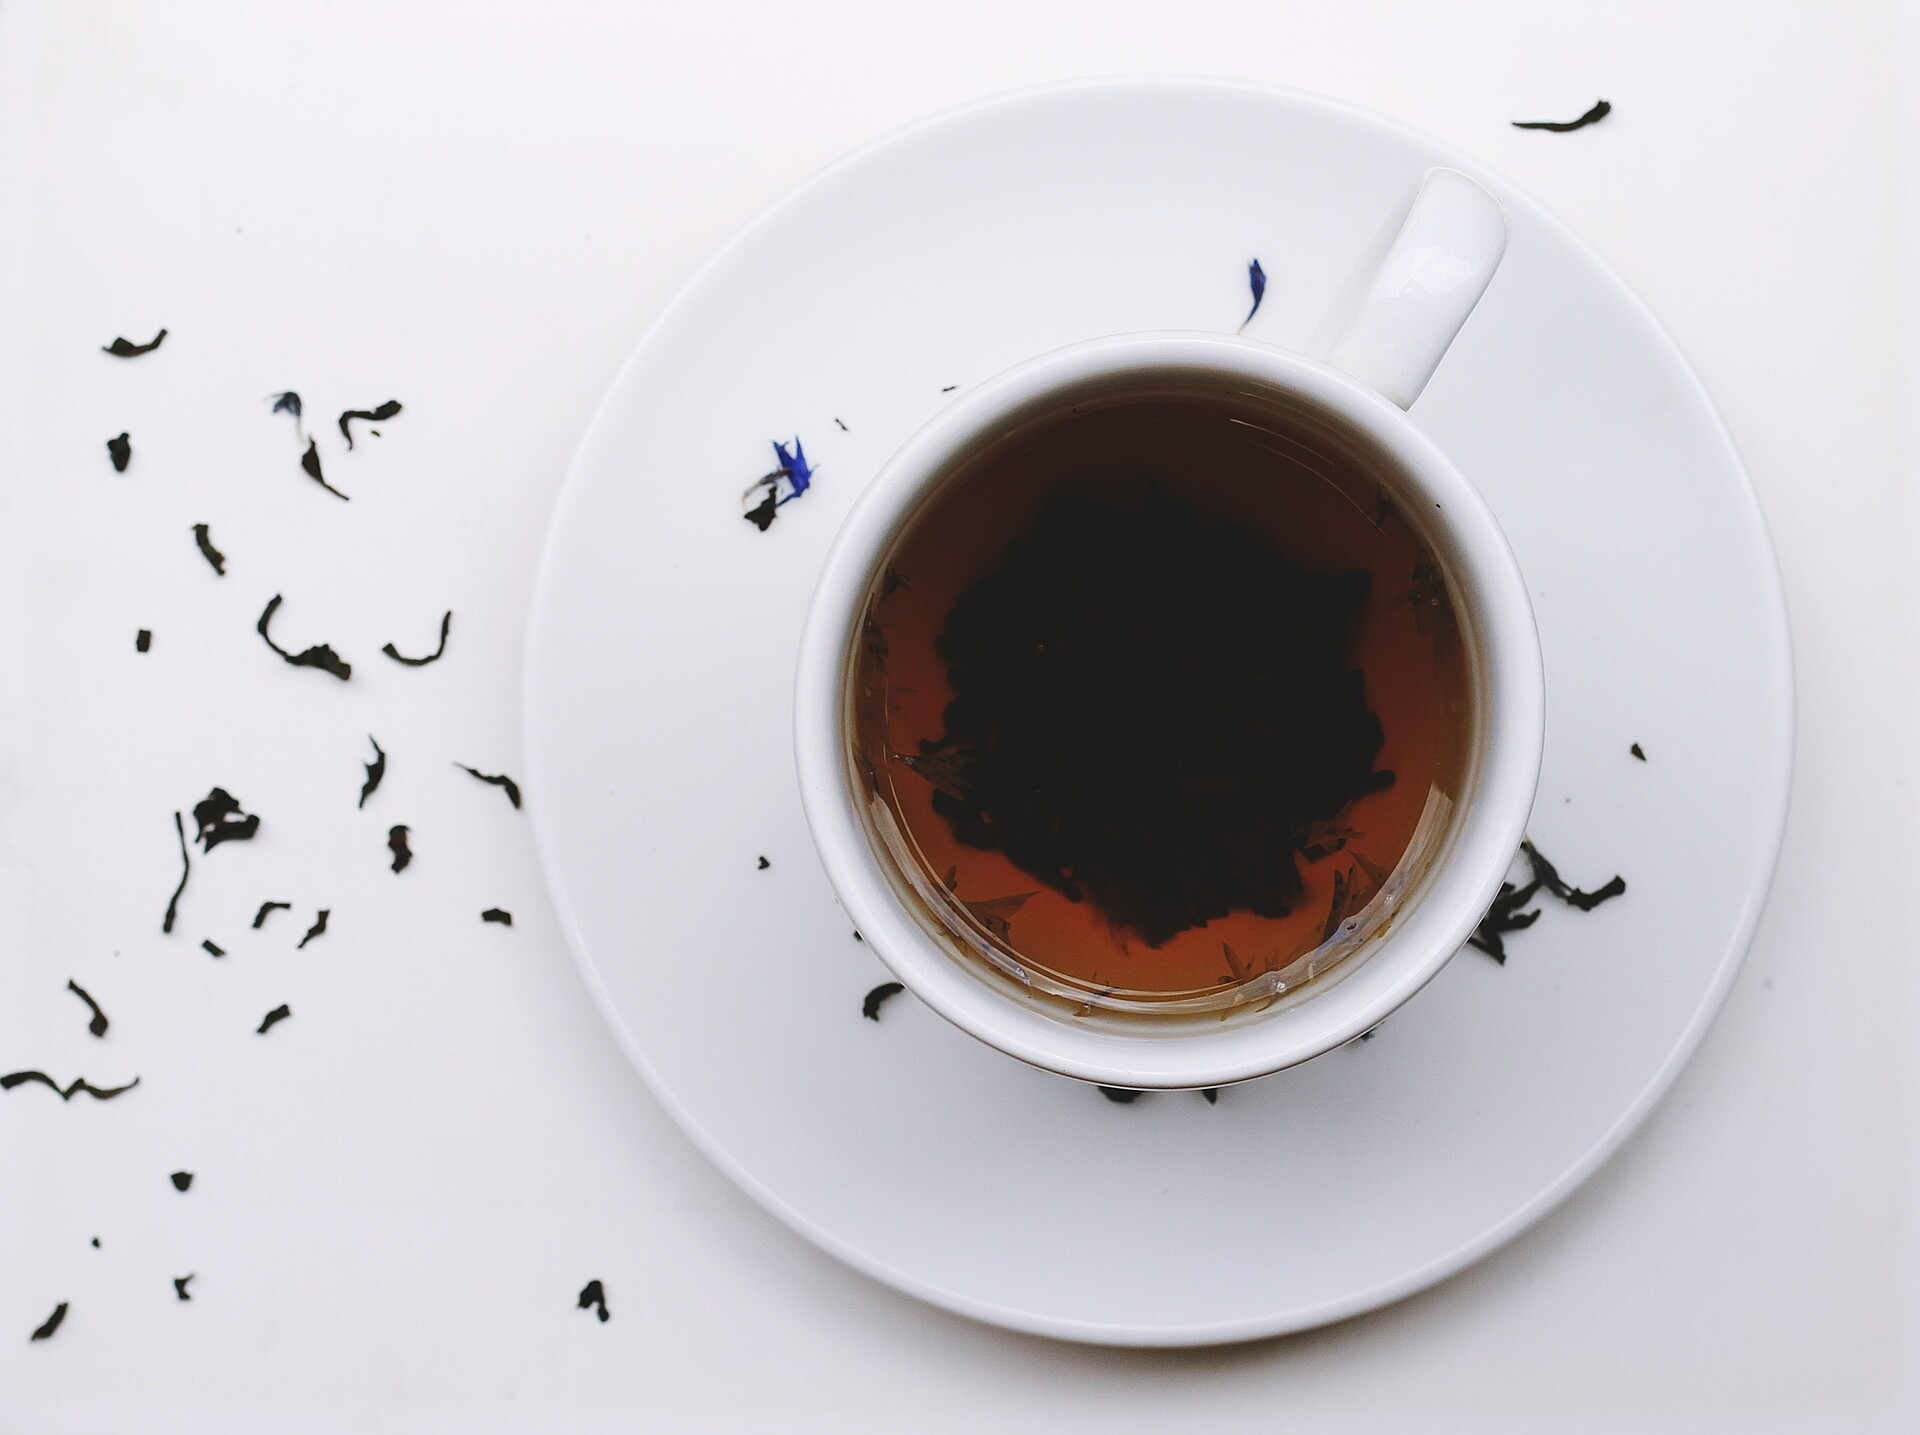
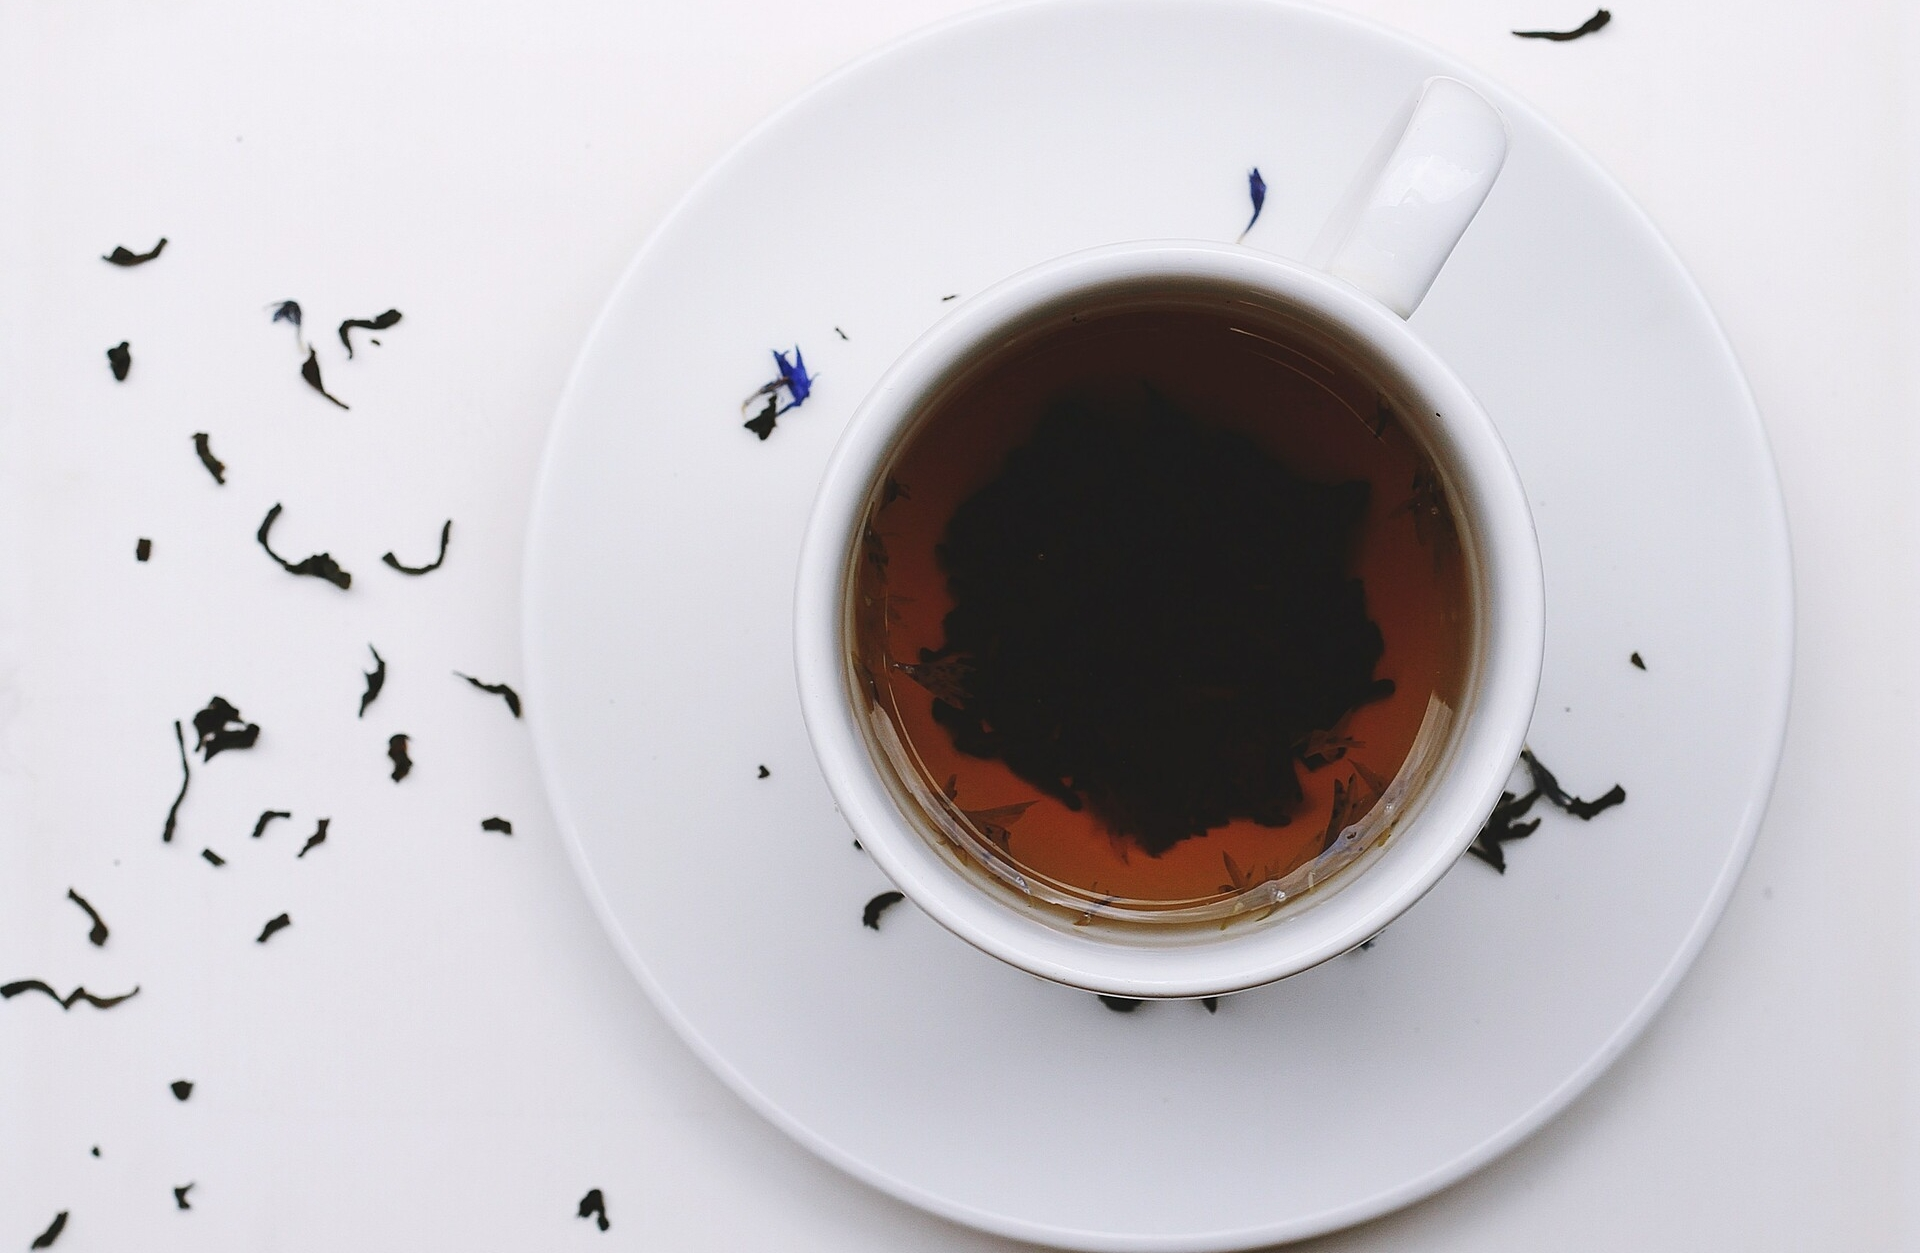
Unify image sizes, change a to link, fix typo

diff --git a/src/components/Header.js b/src/components/Header.js
@@ -1,6 +1,7 @@
-import React, { Fragment } from 'react';
+import React from 'react';
 import { Disclosure } from '@headlessui/react';
 import { ShoppingBagIcon, MenuIcon, XIcon } from '@heroicons/react/outline';
+import { Link } from 'gatsby';
 import Logo from '../assets/planty-logo.svg';
 
 const Header = () => (
@@ -10,34 +11,34 @@ const Header = () => (
                 <div className="max-w-7xl mx-auto py-1 md:py-6 px-4 sm:px-6 lg:px-8">
                     <div className="flex justify-between h-16">
                         <div className="w-full flex justify-center md:justify-between">
-                            <a href="/" className="flex-shrink-0 flex items-center">
+                            <Link to="/" className="flex-shrink-0 flex items-center">
                                 <img
                                     className="block h-10 md:h-16 w-auto"
                                     src={Logo}
-                                    alt="Workflow"
+                                    alt="Planty"
                                 />
-                            </a>
+                            </Link>
                             <div className="hidden md:ml-6 md:flex md:space-x-16">
-                                <a
-                                    href="/products/"
+                                <Link
+                                    to="/products/"
                                     className="inline-flex items-center px-1 pt-1 text-xl font-medium text-secondary"
                                 >
                                     Store
-                                </a>
-                                <a
-                                    href="/"
+                                </Link>
+                                <Link
+                                    to="/"
                                     className="hover:text-secondary inline-flex items-center
                                     px-1 pt-1 text-xl font-light"
                                 >
                                     About
-                                </a>
-                                <a
-                                    href="/"
+                                </Link>
+                                <Link
+                                    to="/"
                                     className="hover:text-secondary inline-flex items-center
                                     px-1 pt-1 text-xl font-light"
                                 >
                                     FAQ
-                                </a>
+                                </Link>
                             </div>
                         </div>
                         <div className="hidden md:ml-14 md:flex md:items-center">

diff --git a/src/components/CategoriesChoiceBar.js b/src/components/CategoriesChoiceBar.js
@@ -1,4 +1,5 @@
 import React from 'react';
+import { Link } from 'gatsby';
 
 const CategoriesChoiceBar = ({ additionalClass, categoryTabs }) => {
     function classNames(...classes) {
@@ -29,9 +30,9 @@ const CategoriesChoiceBar = ({ additionalClass, categoryTabs }) => {
             <div className="w-full hidden sm:block">
                 <nav className="w-full -mb-px flex justify-between" aria-label="Tabs">
                     {categoryTabs.map((tab) => (
-                        <a
+                        <Link
                             key={tab.name}
-                            href={tab.href}
+                            to={tab.href}
                             className={classNames(
                                 tab.current
                                     ? 'underline !font-semibold text-primary hover:text-gray-700 '
@@ -41,7 +42,7 @@ const CategoriesChoiceBar = ({ additionalClass, categoryTabs }) => {
                             aria-current={tab.current ? 'page' : undefined}
                         >
                             {tab.name}
-                        </a>
+                        </Link>
                     ))}
                 </nav>
             </div>

diff --git a/src/sections/BestSellers.js b/src/sections/BestSellers.js
@@ -1,5 +1,5 @@
 import React from 'react';
-import { navigate } from 'gatsby';
+import { Link, navigate } from 'gatsby';
 import { Header } from 'flotiq-components-react';
 import ProductCard from '../components/ProductCard';
 
@@ -8,12 +8,12 @@ const BestSellers = ({ products, additionalClass, headerText }) => (
         <div className="max-w-7xl mx-auto px-4 sm:px-6 lg:px-8">
             <div className="flex items-center justify-between">
                 <Header text={headerText} additionalClasses={['!text-xl md:!text-3xl !font-normal font-roboto !p-0']} />
-                <a
+                <Link
                     className="text-right underline underline-offset-2 decoration-1 text-lg hover:text-secondary"
-                    href="/products/"
+                    to="/products/"
                 >
                     View all products
-                </a>
+                </Link>
             </div>
             <div
                 className="grid grid-cols-1 md:grid-cols-2 lg:grid-cols-4 gap-x-10

diff --git a/src/sections/Products.js b/src/sections/Products.js
@@ -1,17 +1,18 @@
 import React from 'react';
 import { Header } from 'flotiq-components-react';
+import { Link } from 'gatsby';
 import ProductCards from './ProductCards';
 
 const Products = ({ products, additionalClass, headerText }) => (
     <div className={['max-w-7xl mx-auto px-4 sm:px-6 lg:px-8', ...additionalClass].join(' ')}>
         <div className="flex items-center justify-between">
             <Header text={headerText} additionalClasses={['!text-xl md:!text-3xl !font-normal font-roboto !p-0']} />
-            <a
+            <Link
                 className="text-right underline underline-offset-2 decoration-1 text-lg hover:text-secondary"
-                href="/products/"
+                to="/products/"
             >
                 View all products
-            </a>
+            </Link>
         </div>
         <ProductCards products={products} additionalClass={['my-5']} />
     </div>

diff --git a/src/components/ImageWithText.js b/src/components/ImageWithText.js
@@ -1,5 +1,6 @@
 import React from 'react';
 import { Button, Header } from 'flotiq-components-react';
+import { navigate } from 'gatsby';
 
 const ImageWithText = ({ image, headerText1, headerText2, headerText3, buttonLabel, additionalClass }) => (
     <div className={['max-w-7xl mx-auto px-0 lg:px-8', ...additionalClass].join(' ')}>
@@ -22,6 +23,7 @@ const ImageWithText = ({ image, headerText1, headerText2, headerText3, buttonLab
                 <Button
                     label={buttonLabel}
                     rounded="none"
+                    onClick={() => { navigate('/products/'); }}
                     additionalClasses={['mt-5 md:mt-10 bg-white text-secondary']}
                 />
             </div>

diff --git a/src/components/ProductBackButton.js b/src/components/ProductBackButton.js
@@ -1,14 +1,15 @@
 import React from 'react';
 import { ArrowNarrowLeftIcon } from '@heroicons/react/solid';
+import { Link } from 'gatsby';
 
-const RecipeBackButton = ({ additionalClass, backButtonText }) => (
-    <a
-        href="/"
+const ProductBackButton = ({ additionalClass, backButtonText }) => (
+    <Link
+        to="/"
         className={['flex items-center font-light text-sm md:text-2xl', ...additionalClass].join(' ')}
     >
         <ArrowNarrowLeftIcon className="mr-3 h-5 w-5 text-primary" />
         {backButtonText}
-    </a>
+    </Link>
 );
 
-export default RecipeBackButton;
+export default ProductBackButton;
